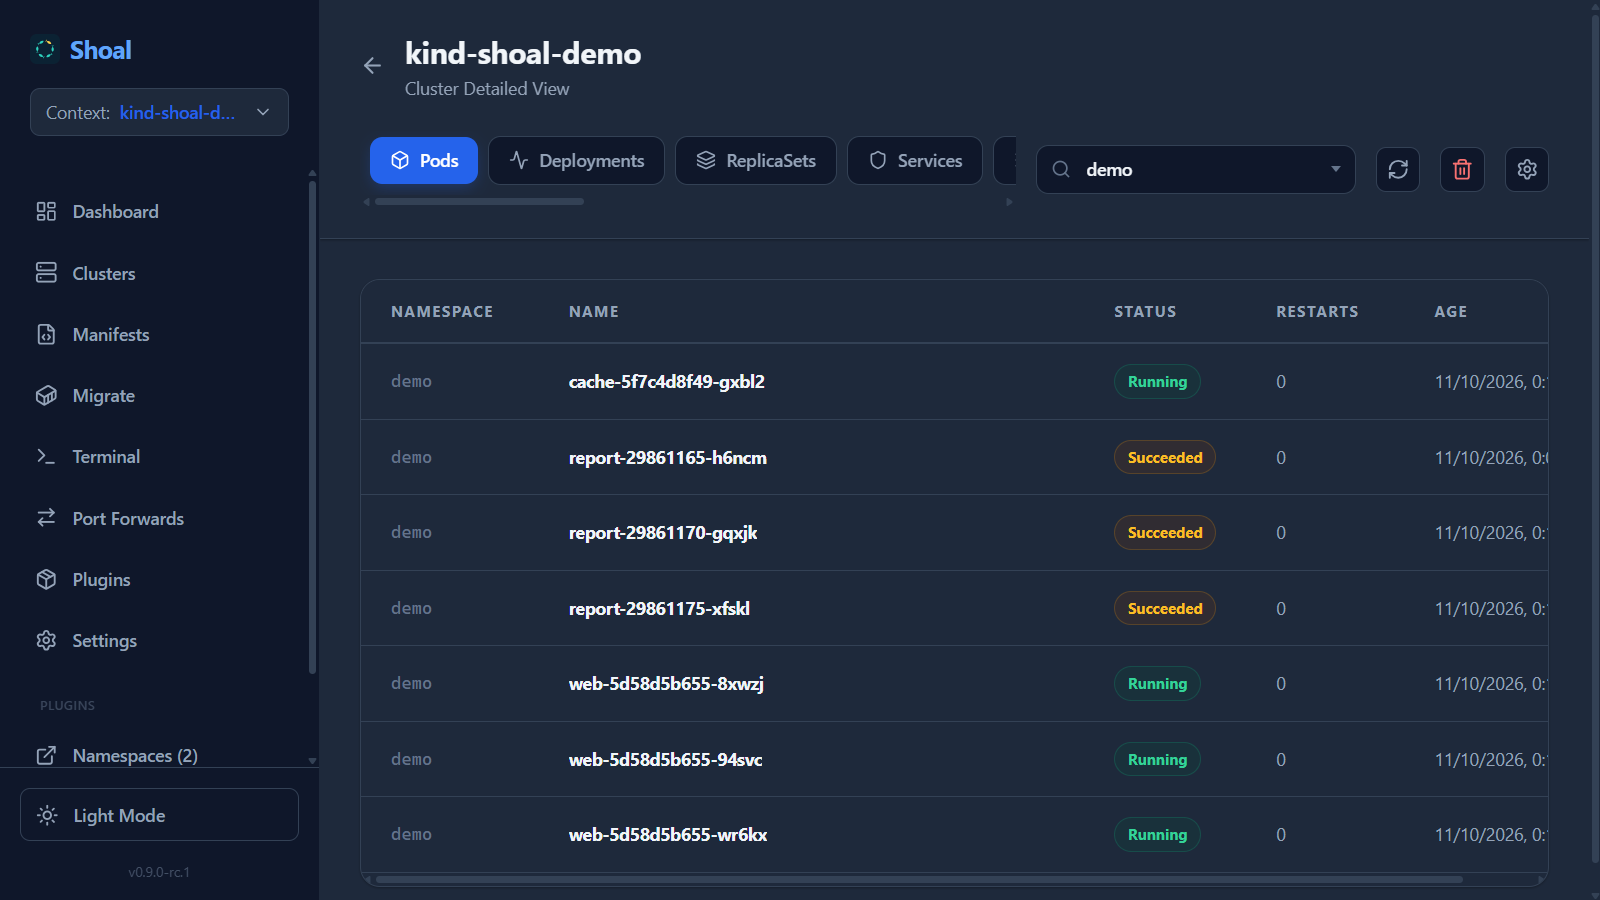
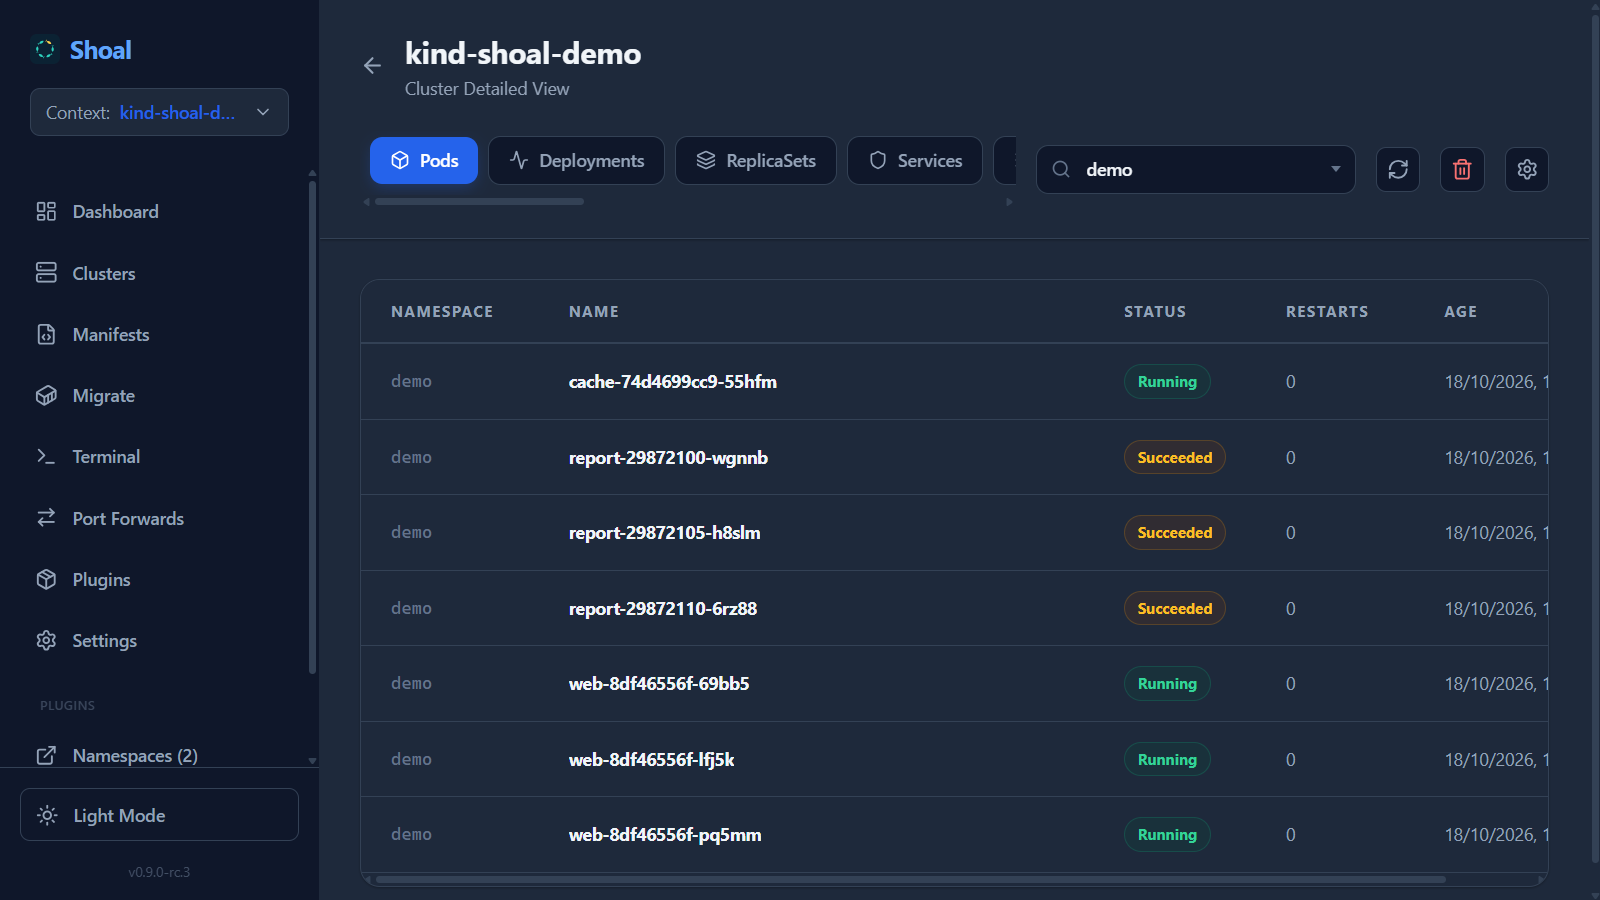
docs: README demo GIF and screenshots from the 0.9.0-rc.3 build
The GIF under the beta note replaces the dashboard screenshot: a kind
cluster created from the Clusters page, the logs of a pod, an example
manifest applied in one click and kubectl in the terminal, recorded from
the packaged rc.3 build. The spec leaves the waits for kubectl, the logs
and the apply result off camera, so the length no longer depends on the
machine. The eight screenshots are retaken on the same build: the sidebar
no longer says rc.1 and the bundled plugins no longer show Uninstall.

diff --git a/e2e/screenshots/demo.spec.ts b/e2e/screenshots/demo.spec.ts
@@ -100,6 +100,17 @@ class FrameRecorder {
 
 let recorder: FrameRecorder;
 
+/**
+ * Runs a wait with the recorder paused, so a slow machine (kubectl against
+ * a cluster that is still settling, say) does not stretch the take: the
+ * frames jump from the action to its result.
+ */
+async function offCamera(wait: () => Promise<unknown>): Promise<void> {
+  await recorder.stop();
+  await wait();
+  recorder.start();
+}
+
 async function settled() {
   await expect(window.locator('[data-sonner-toast]')).toHaveCount(0, {
     timeout: 15_000,
@@ -199,16 +210,18 @@ test('records the README tour', async () => {
     .locator('.table-row', { hasText: 'web-' })
     .filter({ hasText: 'Running' })
     .first();
-  await expect(row).toBeVisible({ timeout: 60_000 });
-  await window.waitForTimeout(600);
+  await offCamera(() => expect(row).toBeVisible({ timeout: 60_000 }));
+  await window.waitForTimeout(800);
   await row.hover();
   await window.waitForTimeout(400);
   await row.locator('.action-button-logs').click();
   const modal = window.getByTestId('log-modal');
   await expect(modal).toBeVisible();
-  await expect(modal.getByTestId('log-content')).not.toBeEmpty({
-    timeout: 30_000,
-  });
+  await offCamera(() =>
+    expect(modal.getByTestId('log-content')).not.toBeEmpty({
+      timeout: 30_000,
+    })
+  );
   await window.waitForTimeout(1_800);
   await window.keyboard.press('Escape');
   await expect(modal).toBeHidden();
@@ -232,9 +245,12 @@ test('records the README tour', async () => {
   await expect(card).toBeVisible();
   await window.waitForTimeout(500);
   await card.getByTitle('Apply to Cluster').click();
-  await expect(window.getByText('Manifest applied successfully!')).toBeVisible({
-    timeout: 60_000,
-  });
+  await window.waitForTimeout(400);
+  await offCamera(() =>
+    expect(window.getByText('Manifest applied successfully!')).toBeVisible({
+      timeout: 60_000,
+    })
+  );
   await window.waitForTimeout(1_200);
   await recorder.stop();
   await settled();
@@ -255,9 +271,12 @@ test('records the README tour', async () => {
   recorder.start();
   await window.keyboard.type('kubectl get pods -A', { delay: TYPING_DELAY });
   await window.keyboard.press('Enter');
-  await expect(window.locator('.xterm-rows')).toContainText('kube-system', {
-    timeout: 30_000,
-  });
-  await window.waitForTimeout(1_500);
+  await window.waitForTimeout(300);
+  await offCamera(() =>
+    expect(window.locator('.xterm-rows')).toContainText('kube-system', {
+      timeout: 30_000,
+    })
+  );
+  await window.waitForTimeout(1_800);
   await recorder.stop();
 });

diff --git a/README.md b/README.md
@@ -13,7 +13,7 @@ Website and downloads: [shoal.dangalcan.com](https://shoal.dangalcan.com).
 
 > **Public beta (0.9).** Windows and Linux (x64) only; macOS arrives with 1.0. Installers are not code-signed yet, so Windows SmartScreen shows "Windows protected your PC": choose **More info → Run anyway**. The plugin marketplace and paid plugins also arrive with 1.0; the beta ships two bundled plugins. Please report problems on [GitHub Issues](https://github.com/Dangalcan/shoal/issues).
 
-![Shoal dashboard](docs/images/dashboard-light.png)
+![Shoal in action: a kind cluster created from the Clusters page, pod logs, a manifest applied in one click and kubectl in the terminal](docs/images/demo.gif)
 
 | Cluster resources                                                | Bundled plugins                                |
 | ---------------------------------------------------------------- | ---------------------------------------------- |

diff --git a/docs/E2E-TESTS.md b/docs/E2E-TESTS.md
@@ -147,7 +147,9 @@ of a pod of the demo workload, applies the Deployment example from the
 Manifests page and runs `kubectl get pods -A` in the terminal; the wait for
 kind is left out. Playwright cannot record a video of an Electron window, so
 the spec takes 1280×800 screenshots back to back (light theme, about ten per
-second) only while a take runs, and lists them with their real durations in
+second) only while a take runs (the waits for kubectl, for the pod logs and
+for the apply result are left out, so the length does not depend on the
+machine), and lists them with their real durations in
 `test-results/demo/frames.txt` for ffmpeg's concat demuxer; the script joins
 them (ffmpeg must be on the PATH) and encodes a palette-optimised GIF, trying
 smaller widths and frame rates until it is under 5 MB.
